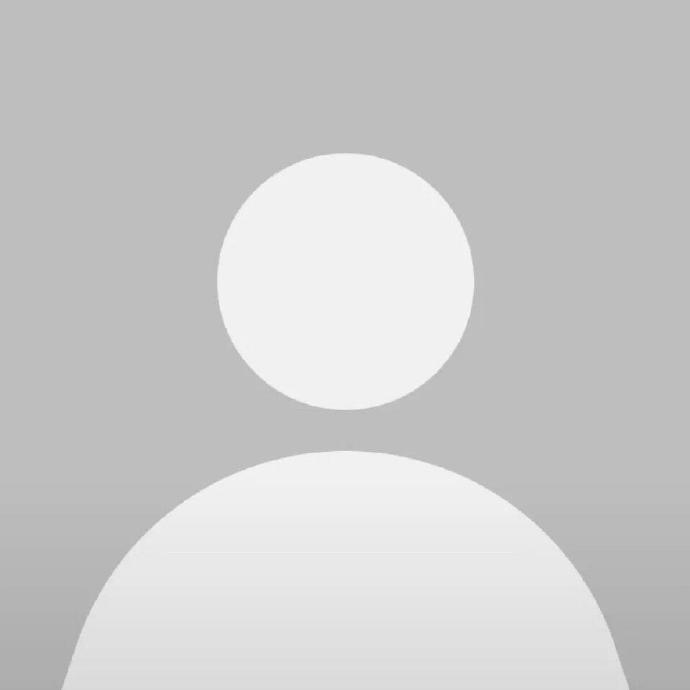
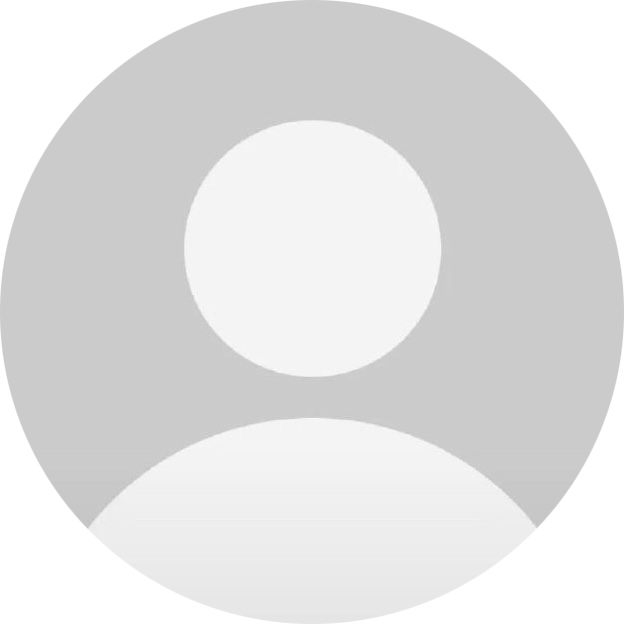
Update team images and team.md entries
Replace updated binaries for default and Feiyu Ji avatars, add yuchen_zhang.jpg and remove incorrectly named yucheng_zhang.jpg. Update team.md to use the actual feiyu_ji image (uncomment), set default image alt to "default", and correct the Yuchen Zhang image filename and alt text.

diff --git a/team.md b/team.md
@@ -31,7 +31,7 @@ title: Team
 <div class="team_wrapper">
     <div style="text-align: center">
         <a href="">
-        <!-- <img src="/images/imgs/team/feiyu_ji.jpg" alt="I want you"> -->
+        <img src="/images/imgs/team/feiyu_ji.jpg" alt="Feiyu Ji">
         </a><br>
         <a href="">
         <strong>Feiyu Ji</strong></a><br>
@@ -40,7 +40,7 @@ title: Team
     </div>
     <div style="text-align: center">
         <a href="">
-        <img src="/images/imgs/team/default.jpg" alt="I want you">
+        <img src="/images/imgs/team/default.jpg" alt="default">
         </a><br>
         <a href="">
         <strong>Minchong Chen</strong></a><br>
@@ -48,7 +48,7 @@ title: Team
     </div>
     <div style="text-align: center">
         <a href="">
-        <img src="/images/imgs/team/yucheng_zhang.jpg" alt="I want you">
+        <img src="/images/imgs/team/yuchen_zhang.jpg" alt="Yuchen Zhang">
         </a><br>
         <a href="">
         <strong>Yuchen Zhang</strong></a><br>
